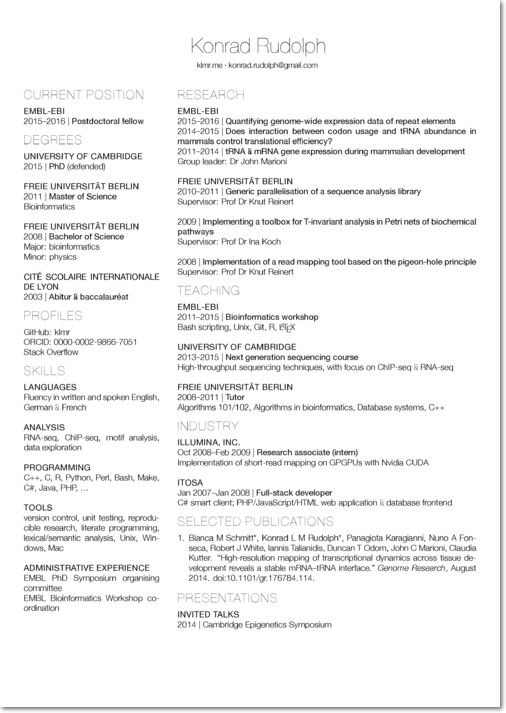
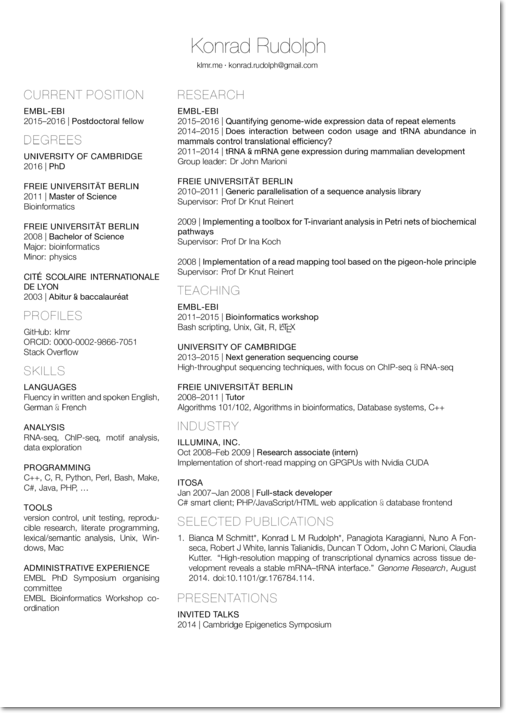
Correct PhD award date

Changed region(s): [[0.504, 0.7714, 0.7411, 0.8022], [0.1186, 0.216, 0.2075, 0.2468], [0.7708, 0.7714, 0.8004, 0.8022]]

diff --git a/klmr-cv.tex b/klmr-cv.tex
@@ -26,7 +26,7 @@
 
 \subsection{University of Cambridge}
 
-\date{2015}
+\date{2016}
 \item{\type{PhD}}
 
 \subsection{Freie Universität Berlin}
